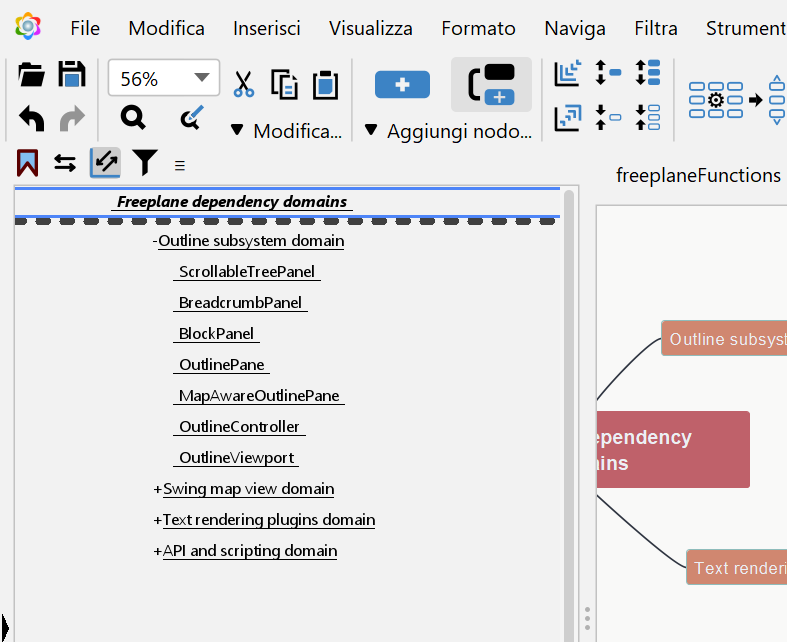
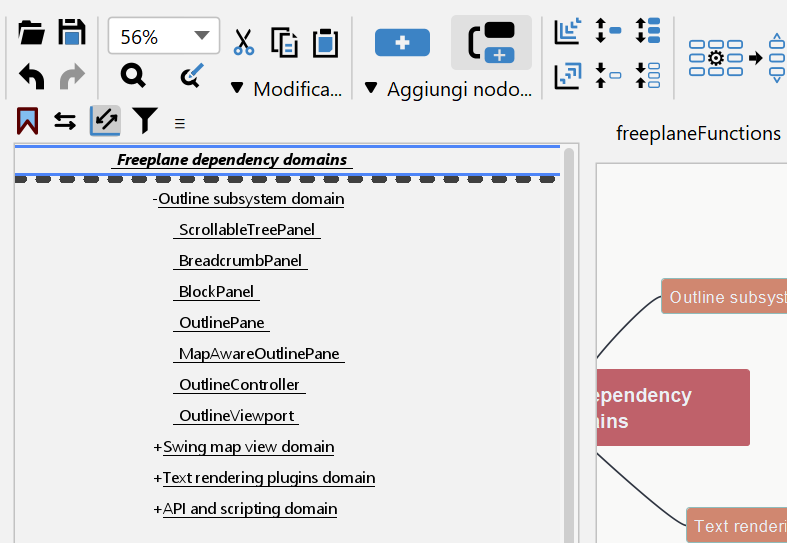
docs: add img to report

diff --git a/doc/analysis/md/design_dependencies/design_report_dependencies_draft.md b/doc/analysis/md/design_dependencies/design_report_dependencies_draft.md
@@ -60,7 +60,7 @@ This also fits the Common Closure Principle: the classes that often changed toge
 The most interesting point is `MapAwareOutlinePane`. The co-change reports mainly showed internal relations in the outline domain; no direct pair with the Swing map view domain was very evident. However, the code shows that the outline is also connected to the main map view through `MapAwareOutlinePane`. This dependency is expected, because the outline shows the same map and must stay aligned with `MapView`, `NodeView`, `NodeModel` and map/node listeners. Still, it increases cognitive load, because modifying the outline also requires understanding its interaction with the main map view.
 
 <p align="center">
-  <img src="../../../deliverables/puml/outline_dependencies.svg" alt="Outline subsystem dependencies" width="700"/>
+  <img src="../../../deliverables/img/design/outline_dependencies.png" alt="Outline subsystem dependencies" width="700"/>
 </p>
 
 <p align="center"><em>Figure 4: Outline subsystem dependencies.</em></p>
@@ -69,11 +69,6 @@ The most interesting point is `MapAwareOutlinePane`. The co-change reports mainl
 
 The API and scripting domain is different from the UI domains because it connects different parts of Freeplane: the public API, the scripting plugin and the internal model.
 
-<p align="center">
-  <img src="../../../deliverables/img/design/API_and_scripting_schema.png" alt="API and scripting" width="700"/>
-</p>
-
-<p align="center"><em>Figure 5: API and scripting access path.</em></p>
 
 Scripts automate actions on mind maps. To support them, Freeplane exposes a public API: `NodeRO` gives read-only access to a node, `Node` adds modification operations, and `MindMap` represents the map available to scripts.
 
@@ -82,10 +77,10 @@ The co-change relation suggested that the public API and the scripting plugin ev
 Therefore, this is not just internal cohesion. It is a real dependency between scripting and the Freeplane core, but the proxy layer keeps it organised. The design is good because the API remains a stable access layer. However, the proxies are still delicate: they protect the internal model, but they must know both the public API and the internal model.
 
 <p align="center">
-  <img src="../../../deliverables/puml/api_scripting_dependencies.svg" alt="API and scripting dependencies" width="700"/>
+  <img src="../../../deliverables/img/design/api_scripting_dependencies.png" alt="API and scripting dependencies" width="700"/>
 </p>
 
-<p align="center"><em>Figure 6: API and scripting dependencies.</em></p>
+<p align="center"><em>Figure 5: API and scripting dependencies.</em></p>
 
 #### 4. Text rendering plugins domain
 
@@ -98,10 +93,10 @@ The reason for their connection is that they all handle special text inside node
 Therefore, the co-change is confirmed as a shared maintenance concern, not as a direct code dependency. The design is mostly good: the plugins remain separated, but changes in the central text mechanism can still affect more than one plugin.
 
 <p align="center">
-  <img src="../../../deliverables/puml/text_rendering_dependencies.svg" alt="Text rendering plugins dependencies" width="700"/>
+  <img src="../../../deliverables/img/design/text_rendering_dependencies.png" alt="Text rendering plugins dependencies" width="700"/>
 </p>
 
-<p align="center"><em>Figure 7: Text rendering plugins dependencies.</em></p>
+<p align="center"><em>Figure 6: Text rendering plugins dependencies.</em></p>
 
 ### Final observations
 